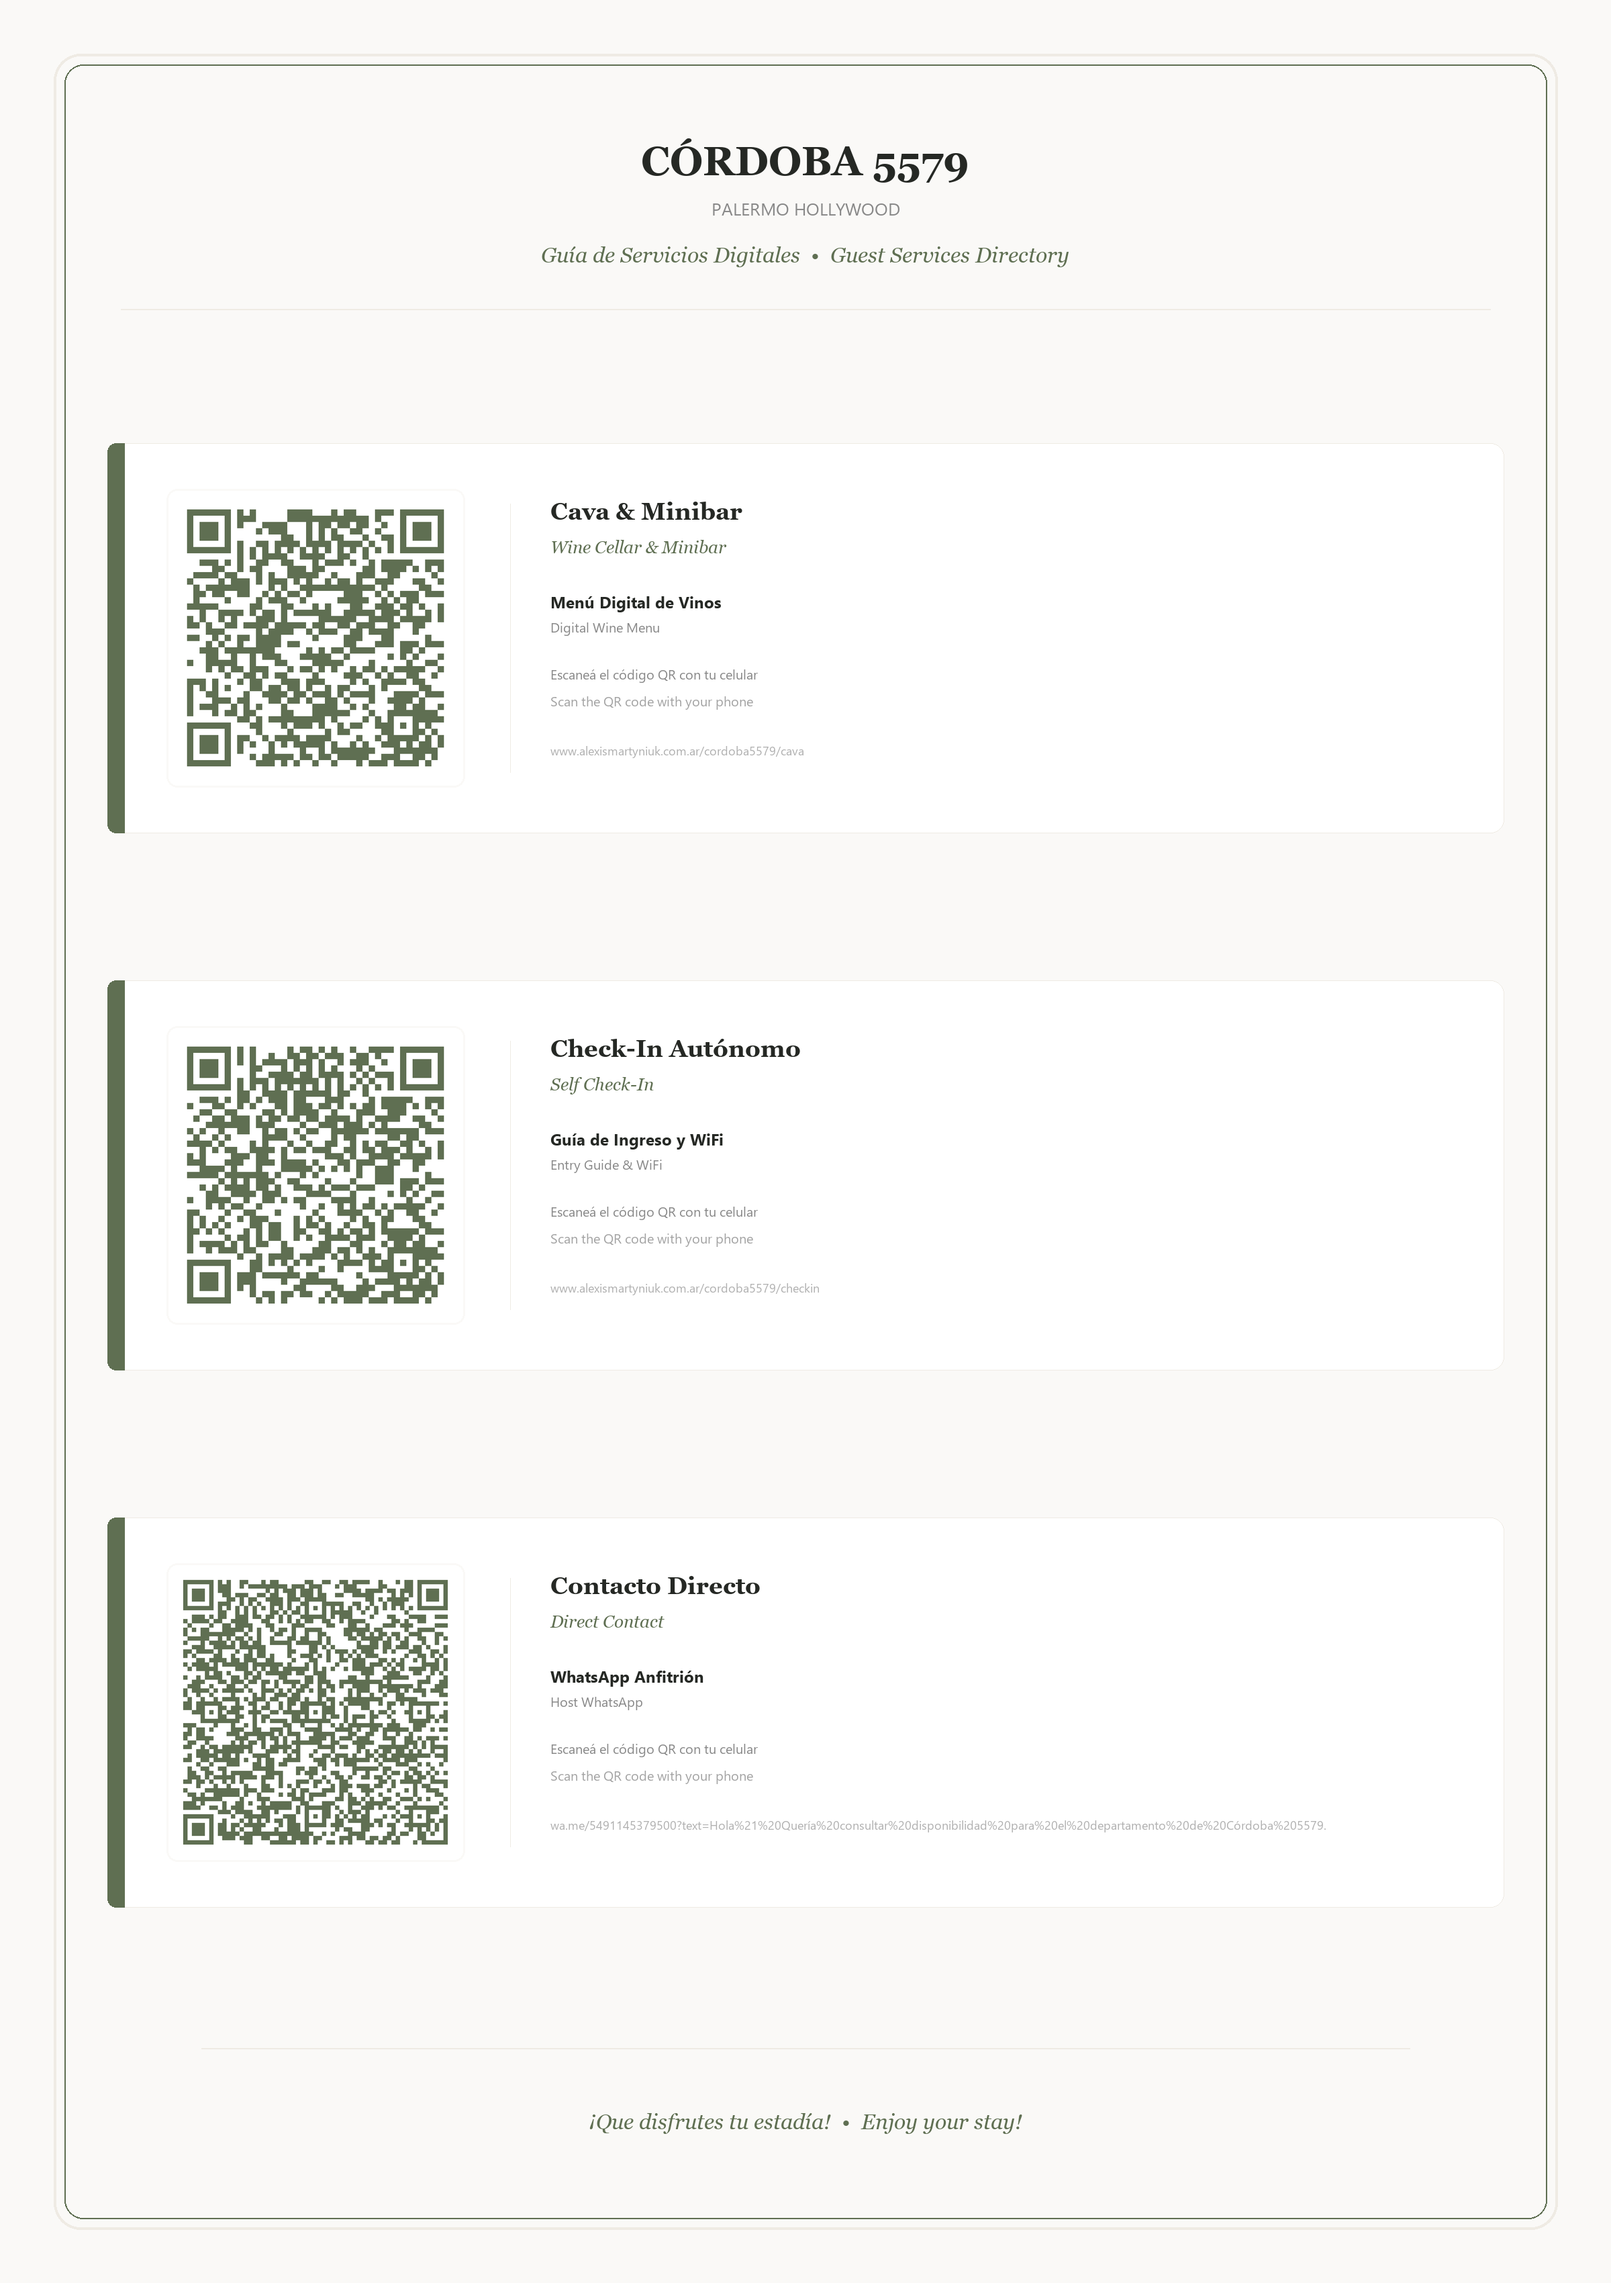
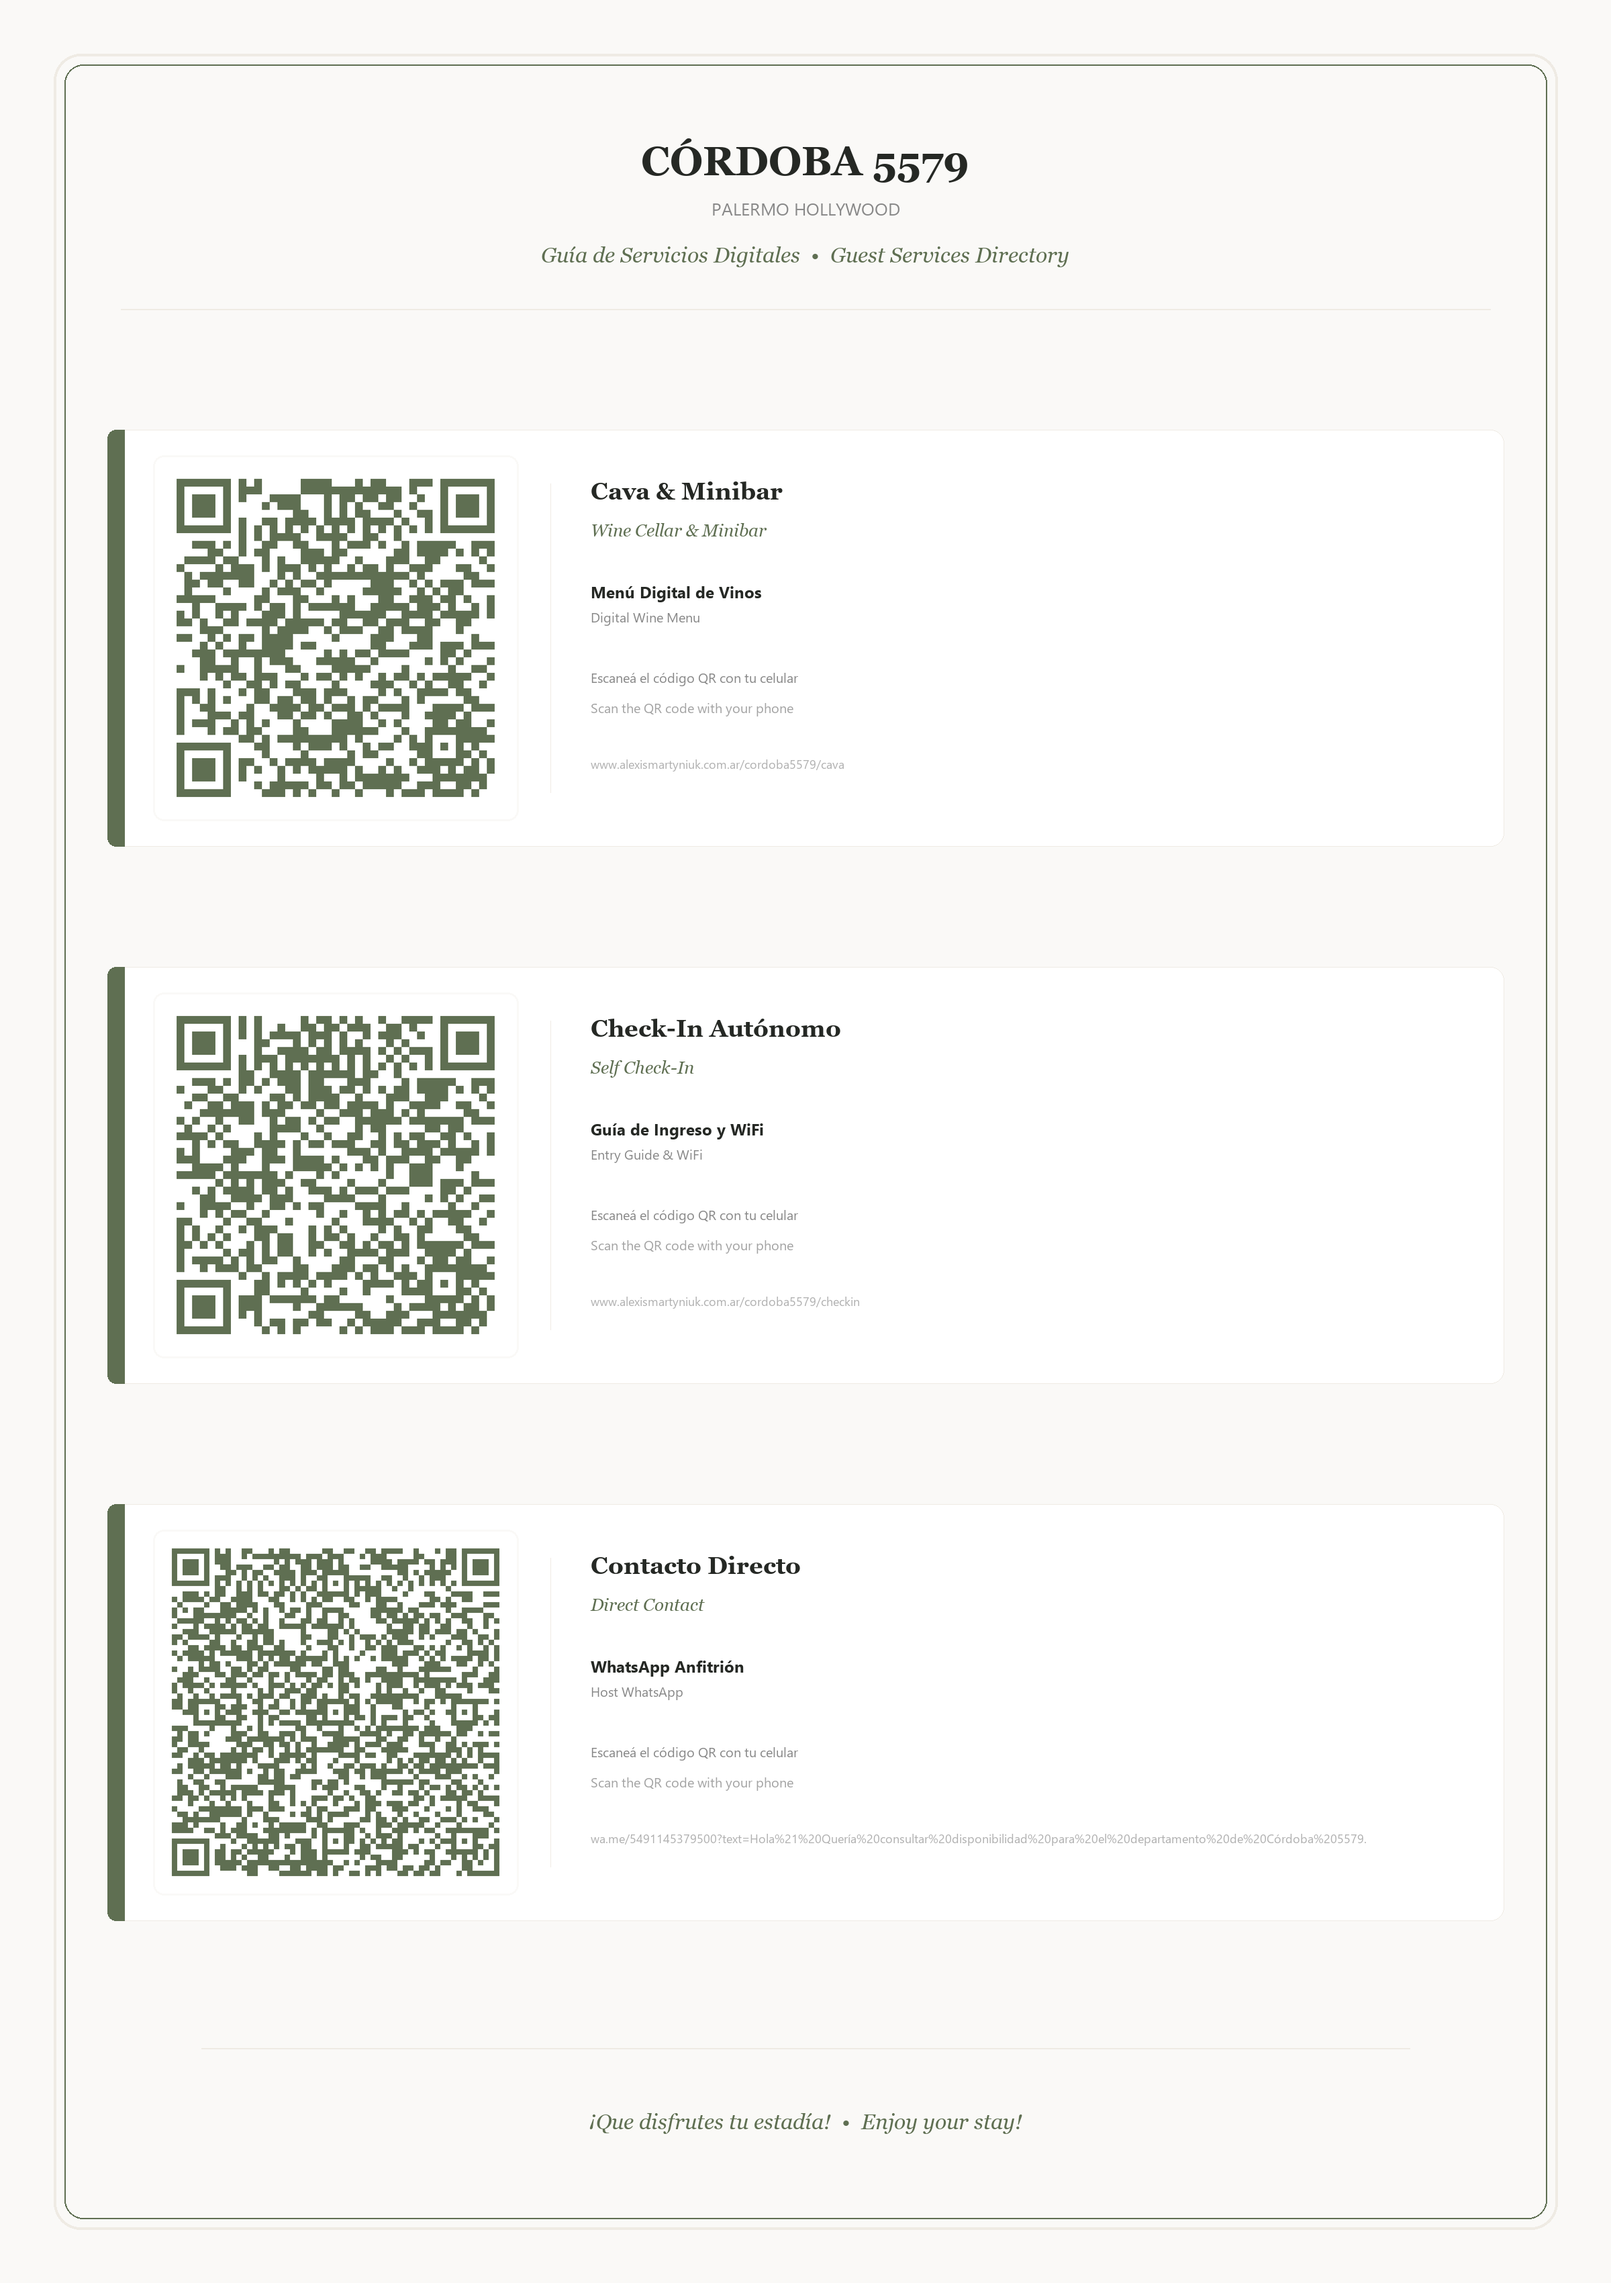
UI: Enlarge QR codes (to 520px) on unified services sheet for better scanability

diff --git a/scripts/generate_qrs.py b/scripts/generate_qrs.py
@@ -234,13 +234,13 @@ def make_unified_sheet() -> Image.Image:
     # Row Center Y-coordinates (equally distributed vertically)
     row_centers = [950, 1750, 2550]
     
-    # Render rows vertically stacked
+    # Render rows vertically stacked with larger QR codes
     for idx, code in enumerate(CODES):
         cy = row_centers[idx]
         
-        # 1. Row card backing (X=160 to X=2240, height 580px)
+        # 1. Row card backing (X=160 to X=2240, height 620px)
         draw.rounded_rectangle(
-            [160, cy - 290, 2240, cy + 290],
+            [160, cy - 310, 2240, cy + 310],
             radius=20,
             fill="white",
             outline="#EFEBE4",
@@ -249,19 +249,19 @@ def make_unified_sheet() -> Image.Image:
         
         # 2. Left side color vertical bar accent
         draw.rounded_rectangle(
-            [160, cy - 290, 185, cy + 290],
+            [160, cy - 310, 185, cy + 310],
             radius=20,
             fill=code["color"]
         )
         # Cover right corners of accent bar
-        draw.rectangle([170, cy - 290, 185, cy + 290], fill=code["color"])
+        draw.rectangle([170, cy - 310, 185, cy + 310], fill=code["color"])
 
-        # 3. QR Code (placed on the left side of the row)
+        # 3. QR Code (placed on the left side of the row - increased size to 520px)
         qr_img = make_qr(code["url"], code["color"], "white")
-        qr_size = 420
+        qr_size = 520
         qr_img = qr_img.resize((qr_size, qr_size), Image.LANCZOS)
-        qr_x = 260
-        qr_y = cy - 210
+        qr_x = 240
+        qr_y = cy - 260
         
         # QR Backing outline
         draw.rounded_rectangle(
@@ -274,25 +274,27 @@ def make_unified_sheet() -> Image.Image:
         card.paste(qr_img, (qr_x, qr_y), mask=qr_img)
 
         # 4. Vertical inner divider line between QR and details
-        draw.line([(760, cy - 200), (760, cy + 200)], fill="#EFEBE4", width=1)
+        draw.line([(820, cy - 230), (820, cy + 230)], fill="#EFEBE4", width=1)
 
         # 5. Text details (placed on the right side of the row, left-aligned)
-        text_x = 820
+        text_x = 880
         
         # Titles
-        draw.text((text_x, cy - 210), code["label_es"], fill="#252824", font=font_title_es, anchor="la")
-        draw.text((text_x, cy - 150), code["label_en"], fill="#5F6F52", font=font_title_en, anchor="la")
+        draw.text((text_x, cy - 240), code["label_es"], fill="#252824", font=font_title_es, anchor="la")
+        draw.text((text_x, cy - 175), code["label_en"], fill="#5F6F52", font=font_title_en, anchor="la")
 
         # Sublabels
-        draw.text((text_x, cy - 70), code["sublabel_es"], fill="#252824", font=font_label, anchor="la")
-        draw.text((text_x, cy - 30), code["sublabel_en"], fill="#888888", font=font_sublabel, anchor="la")
+        draw.text((text_x, cy - 85), code["sublabel_es"], fill="#252824", font=font_label, anchor="la")
+        draw.text((text_x, cy - 45), code["sublabel_en"], fill="#888888", font=font_sublabel, anchor="la")
 
         # Instructions
-        draw.text((text_x, cy + 40), "Escaneá el código QR con tu celular", fill="#888888", font=font_sublabel, anchor="la")
-        draw.text((text_x, cy + 80), "Scan the QR code with your phone", fill="#a3a3a3", font=font_sublabel, anchor="la")
+        draw.text((text_x, cy + 45), "Escaneá el código QR con tu celular", fill="#888888", font=font_sublabel, anchor="la")
+        draw.text((text_x, cy + 90), "Scan the QR code with your phone", fill="#a3a3a3", font=font_sublabel, anchor="la")
 
         # Web URL
-        draw.text((text_x, cy + 155), code["url"].replace("https://", ""), fill="#B0B0B0", font=font_url, anchor="la")
+        draw.text((text_x, cy + 175), code["url"].replace("https://", ""), fill="#B0B0B0", font=font_url, anchor="la")
+
+
 
     # Bottom Footer section
     draw.line([(300, 3050), (W - 300, 3050)], fill="#EFEBE4", width=2)
